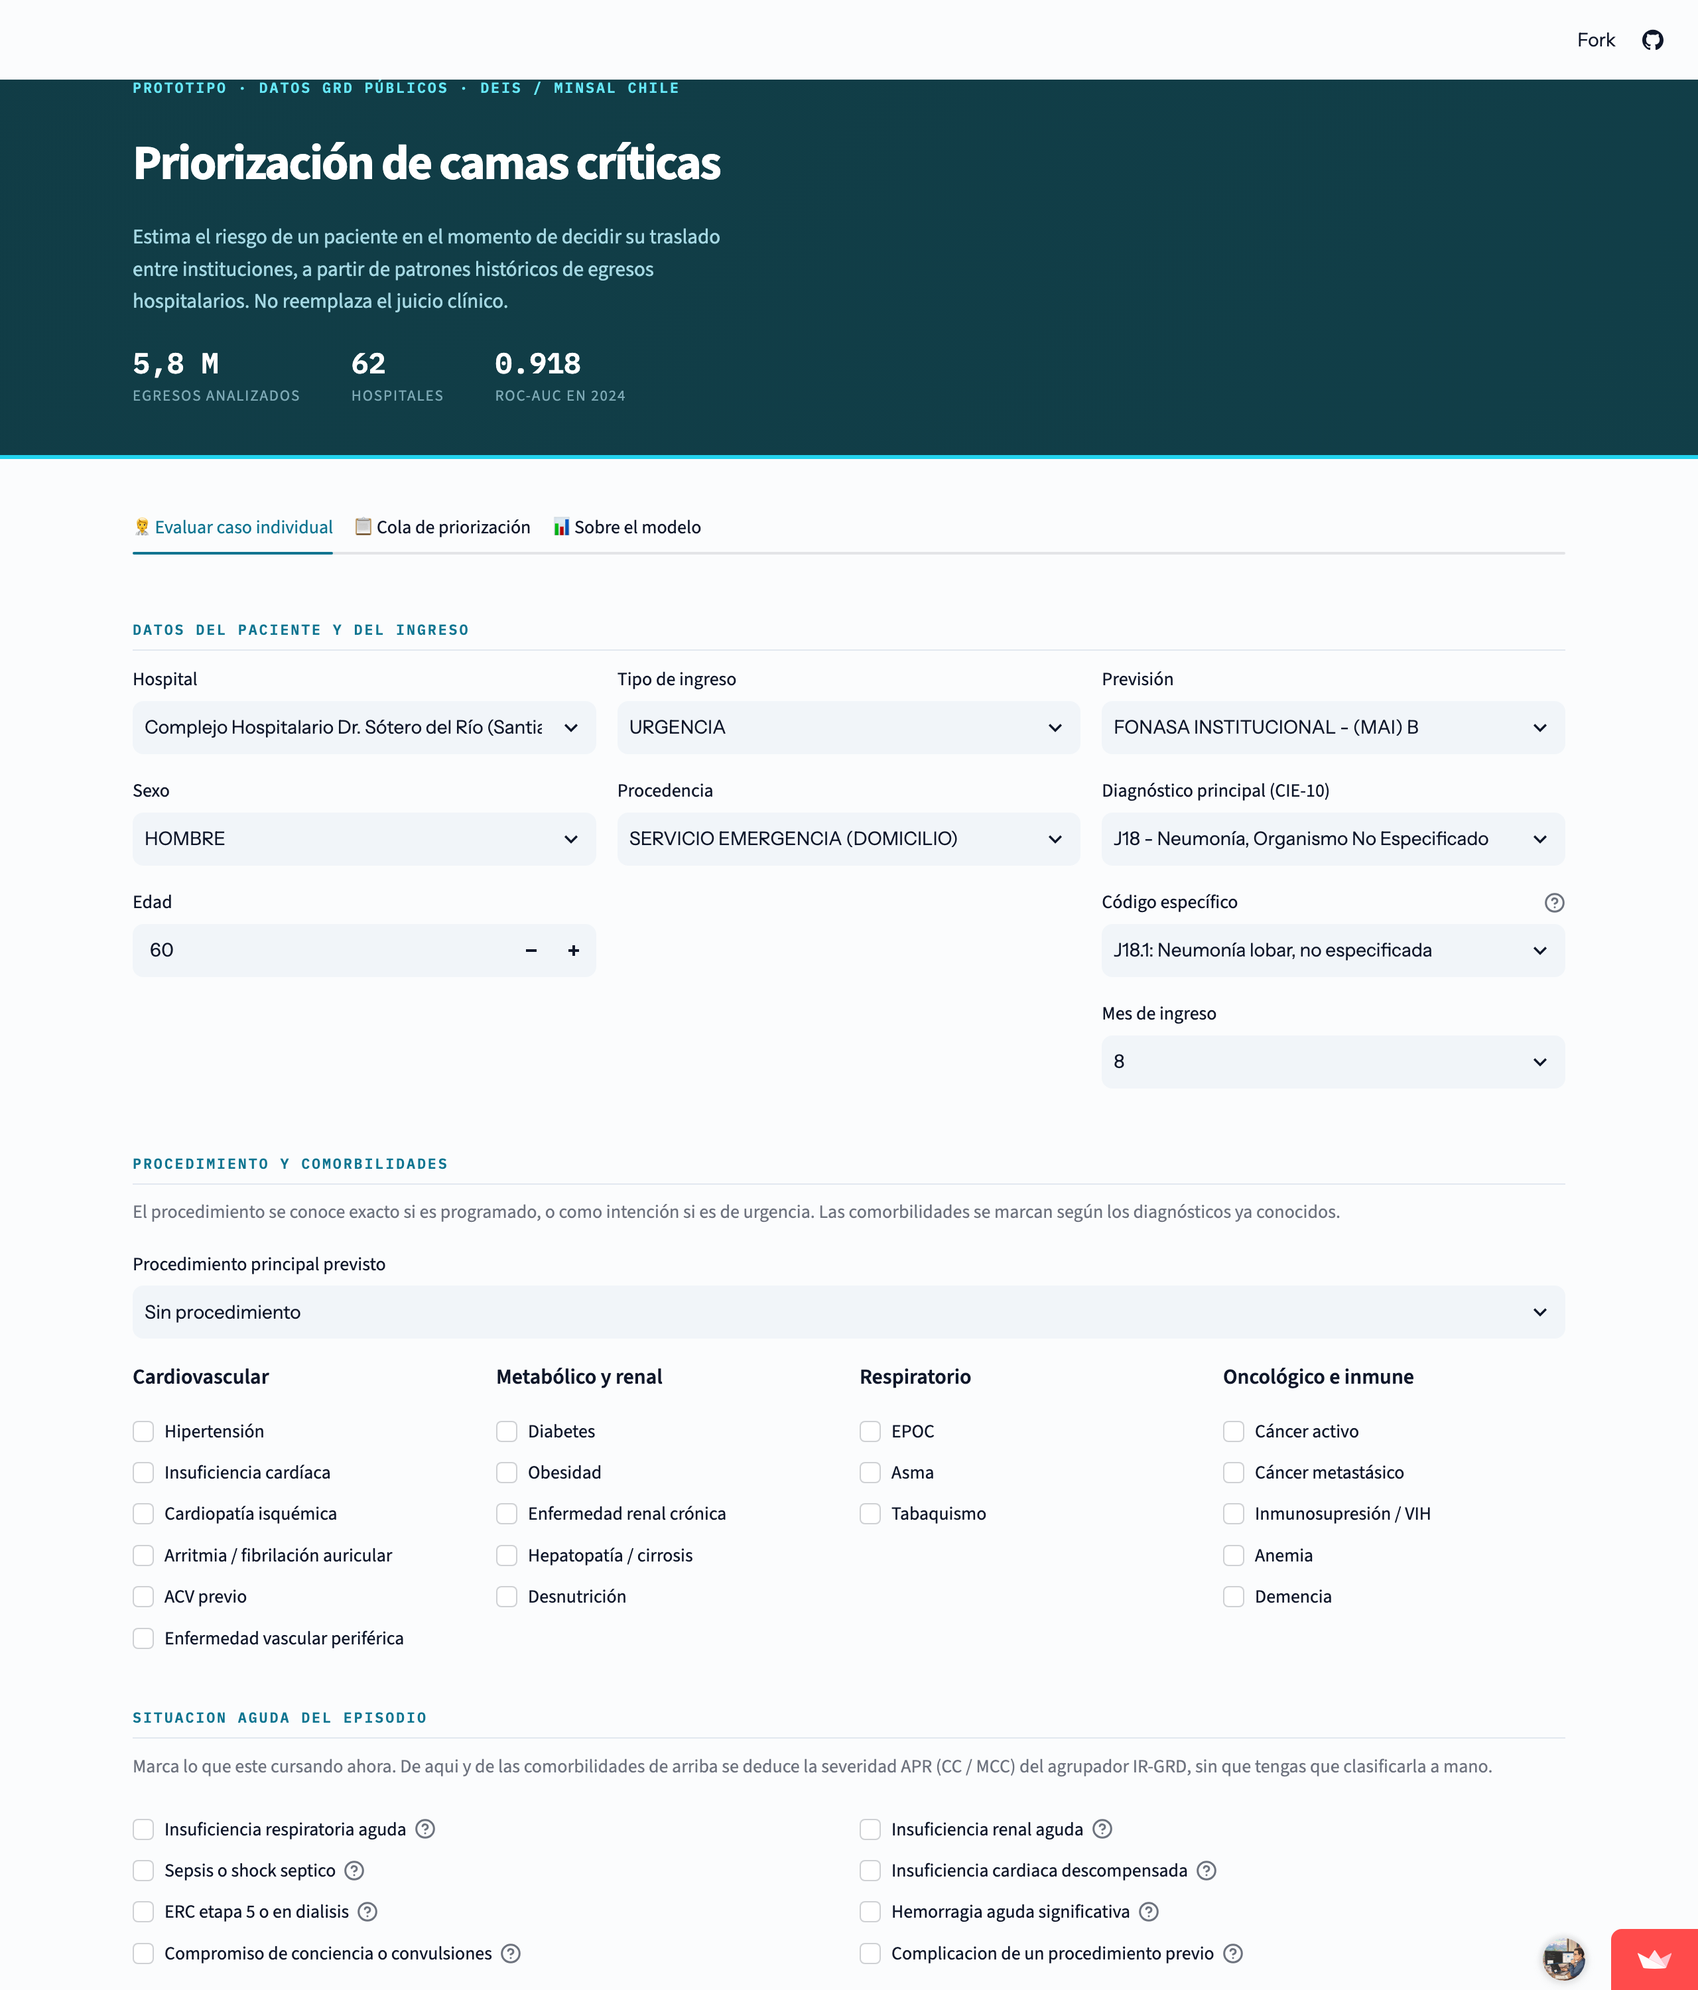
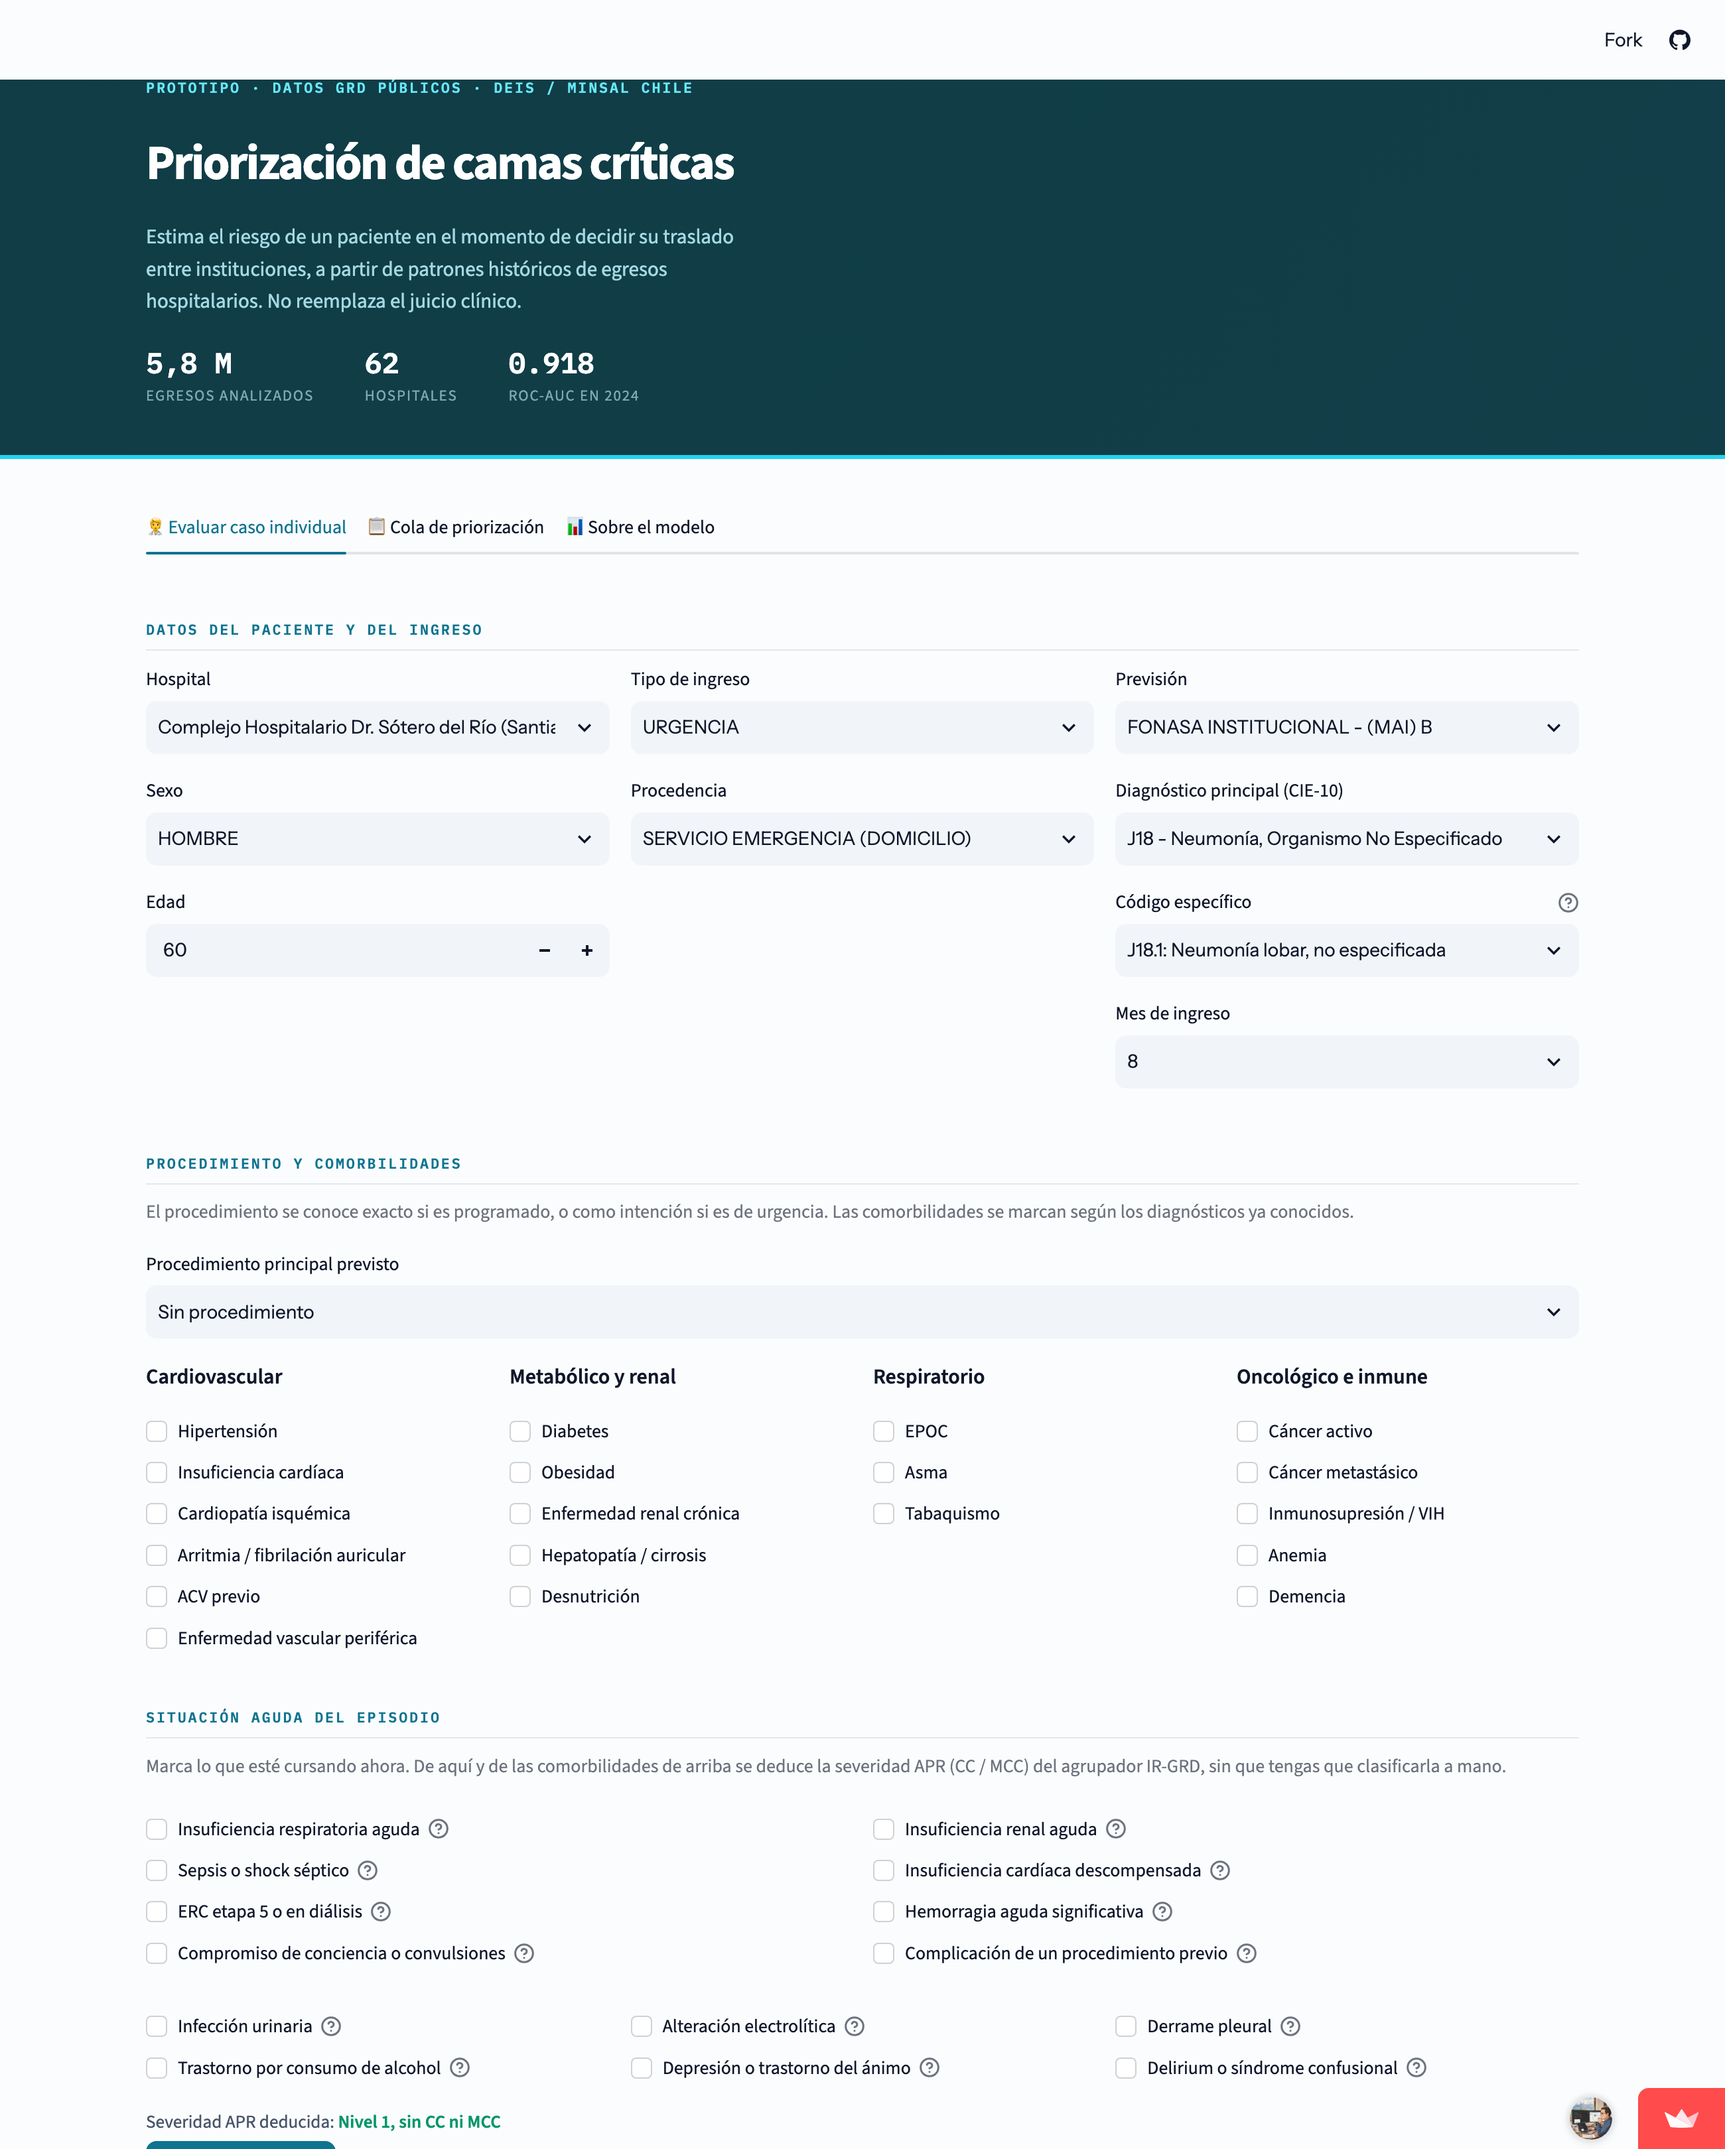
Enlace de demostracion con ?demo=1
Precarga un caso ilustrativo, paciente de 88 anos con comorbilidades trasladado
desde otro hospital, y calcula al cargar. La divergencia entre los dos puntajes
queda a la vista sin que el visitante tenga que llenar el formulario.

diff --git a/src/app.py b/src/app.py
@@ -409,9 +409,14 @@ PRECARGA = {
 }
 
 
+def demo_activo() -> bool:
+    return st.query_params.get("demo") in ("1", "true", "si")
+
+
 def indice_por_defecto(opciones: list, col: str) -> int:
     """Posición del valor de arranque, o 0 si ese valor no está disponible."""
-    preferido = PRECARGA.get(col)
+    tabla = {**PRECARGA, **(PRECARGA_DEMO if demo_activo() else {})}
+    preferido = tabla.get(col)
     return opciones.index(preferido) if preferido in opciones else 0
 
 
@@ -453,7 +458,8 @@ def formulario_paciente(artefacto: dict, key_prefix: str) -> dict:
         )
         sexo = st.selectbox("Sexo", options=opciones["sexo"], key=f"{key_prefix}_sexo",
             index=indice_por_defecto(opciones["sexo"], "sexo"))
-        edad = st.number_input("Edad", min_value=0, max_value=110, value=60, key=f"{key_prefix}_edad")
+        st.session_state.setdefault(f"{key_prefix}_edad", 60)
+        edad = st.number_input("Edad", min_value=0, max_value=110, key=f"{key_prefix}_edad")
     with col2:
         tipo_ingreso = st.selectbox(
             "Tipo de ingreso", options=opciones["tipo_ingreso"], key=f"{key_prefix}_tingreso",
@@ -564,10 +570,43 @@ def formulario_paciente(artefacto: dict, key_prefix: str) -> dict:
 DIVERGENCIA_ALERTA_PP = 5.0  # puntos porcentuales
 
 
+# Con ?demo=1 la aplicacion arranca con un caso ilustrativo ya calculado: un
+# paciente mayor y con comorbilidades, donde el puntaje de cama queda bajo y el
+# clinico alto. Sirve para compartir un enlace que muestre el hallazgo de una vez,
+# y para generar las capturas de la documentacion sin intervencion manual.
+# Los desplegables se precargan por PRECARGA_DEMO y no por session_state: Streamlit
+# advierte si un widget recibe index= y ademas su valor por la API de estado.
+PRECARGA_DEMO = {
+    "diagnostico1_categoria": "J18",
+    "tipo_procedencia": "OTROS HOSPITALES DE LA RED",
+}
+CASO_DEMO = {
+    "individual_edad": 88,
+    "individual_tiene_hipertension": True,
+    "individual_tiene_diabetes": True,
+    "individual_tiene_erc": True,
+    "individual_tiene_demencia": True,
+    "individual_tiene_insuf_cardiaca": True,
+}
+
+
+def sembrar_demo():
+    """Precarga el caso de ejemplo en session_state antes de crear los widgets."""
+    if not demo_activo():
+        return False
+    if st.session_state.get("_demo_sembrado"):
+        return True
+    for clave, valor in CASO_DEMO.items():
+        st.session_state[clave] = valor
+    st.session_state["_demo_sembrado"] = True
+    return True
+
+
 def tab_caso_individual(artefacto):
     cama, clinico = artefacto["cama_critica"], artefacto["riesgo_clinico"]
+    modo_demo = sembrar_demo()
     datos = formulario_paciente(artefacto, "individual")
-    if st.button("Calcular riesgo", type="primary"):
+    if st.button("Calcular riesgo", type="primary") or modo_demo:
         X = construir_input(datos, artefacto)
         p_cama = cama["modelo"].predict_proba(X)[0, 1]
         p_clin = clinico["modelo"].predict_proba(X)[0, 1]
